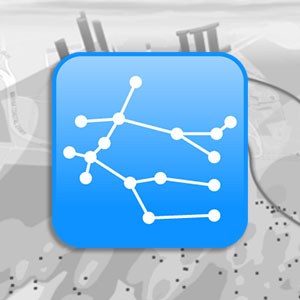
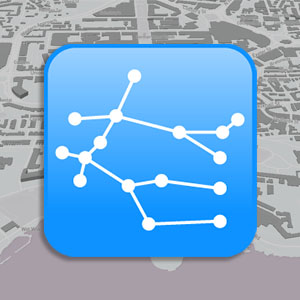
dev-website: Replaces UN images and renamed "Marie" to "Search Engine" following feedback.

diff --git a/Deploy/stacks/web/website/site/user/pages/02.services/01.search-engine/marie.md b/Deploy/stacks/web/website/site/user/pages/02.services/01.search-engine/marie.md
@@ -1,12 +1,12 @@
 ---
-title: Marie
-slug: marie
+title: Search Engine
+slug: search-engine
 ---
 
 <table>
 	<tr>
-		<td width="25%" markdown="1" style="text-align: center;">[![Marie Curie](image://marie-curie.jpg?forceResize=150,200&classes=header-image)](https://commons.wikimedia.org/wiki/Maria_Sk%C5%82odowska-Curie#/media/File:Marie_Curie_c._1920s.jpg)</td>
-		<td width="75%"><h2>Marie</h2>This website presents a proof-of-concept Question Answering system for accessing chemical data from the World Avatar knowledge graph and the Wikidata knowledge graph. The knowledge graphs offers inter-connected data from chemical kinetics to chemical and physical properties of species and many other domains. We trained a question type classification model and an entity extraction model to interpret chemistry-related questions of interest. The system has a novel design which applies a topic model to identify the question-to-ontology affiliation to improve its accuracy.</td>
+		<td width="25%" markdown="1" style="text-align: center;">![Search-Engine](image://search-engine.jpg?forceResize=150,200&classes=header-image)</td>
+		<td width="75%"><h2>Search Engine</h2>This website presents a proof-of-concept search engine system for accessing chemical data from the World Avatar knowledge graph and the Wikidata knowledge graph. The knowledge graphs offers inter-connected data from chemical kinetics to chemical and physical properties of species and many other domains. We trained a question type classification model and an entity extraction model to interpret chemistry-related questions of interest. The system has a novel design which applies a topic model to identify the question-to-ontology affiliation to improve its accuracy.</td>
 	</tr>
 </table>
 

diff --git a/Deploy/stacks/web/website/site/user/pages/01.home/home.md b/Deploy/stacks/web/website/site/user/pages/01.home/home.md
@@ -22,14 +22,14 @@ body_classes: 'title-center title-h1h2'
 
 	<table width="80%" style="margin: auto;">
 		<tr height="300px">
-			<td width="45%" style="text-align: center;" markdown="1">[![Marie](image://marie-300.jpg?forceResize=250,250&classes=header-image)](/services/marie)</td>
+			<td width="45%" style="text-align: center;" markdown="1">[![Search Engine](image://search-engine-300.jpg?forceResize=250,250&classes=header-image)](/services/search-engine)</td>
 			<td width="10%"></td>
 			<td width="45%" style="text-align: center;" markdown="1">[![UK Digital Twin](image://digital-twin/digital-twin-300.jpg?forceResize=250,250&classes=header-image)](/services/digital-twin)</td>
 		</tr>
 		<tr>
 			<td width="45%" style="text-align: center;">
-				<h5><a href="/services/marie">Marie Chatbot</a></h5>
-				<p style="font-size: 80%;">A proof-of-concept Question Answering system for accessing chemical data from the World Avatar knowledge graph and the Wikidata knowledge graph.</p>
+				<h5><a href="/services/search-engine">Search Engine</a></h5>
+				<p style="font-size: 80%;">A proof-of-concept search engine for accessing chemical data from the World Avatar knowledge graph and the Wikidata knowledge graph.</p>
 			</td>
 			<td width="10%"></td>
 			<td width="45%" style="text-align: center; margin-left:15px;">

diff --git a/Deploy/stacks/web/website/site/user/pages/02.services/02.digital-twin/04.sustainable-goals/un_goals.md b/Deploy/stacks/web/website/site/user/pages/02.services/02.digital-twin/04.sustainable-goals/un_goals.md
@@ -5,7 +5,7 @@ slug: sustainable-goals
 
 <table class="three-quarter-width" style="margin: auto;">
 	<tr>
-		<td width="350px" style="text-align: center;" markdown="1">![UK](image://digital-twin/un-goals-triangle.jpg?forceResize=300,300)</td>
+		<td width="350px" style="text-align: center;" markdown="1">![UK](image://digital-twin/un-goals.jpg?forceResize=300,300)</td>
 		<td style="font-size: 10pt;">
 			<h2>Sustainable Goals</h2>
 			<p>The UK Digital Twin supports queries across number of aspects of the UK energy related infrastructure, including the electrical power system, the gas transmission system and land use.</p>
